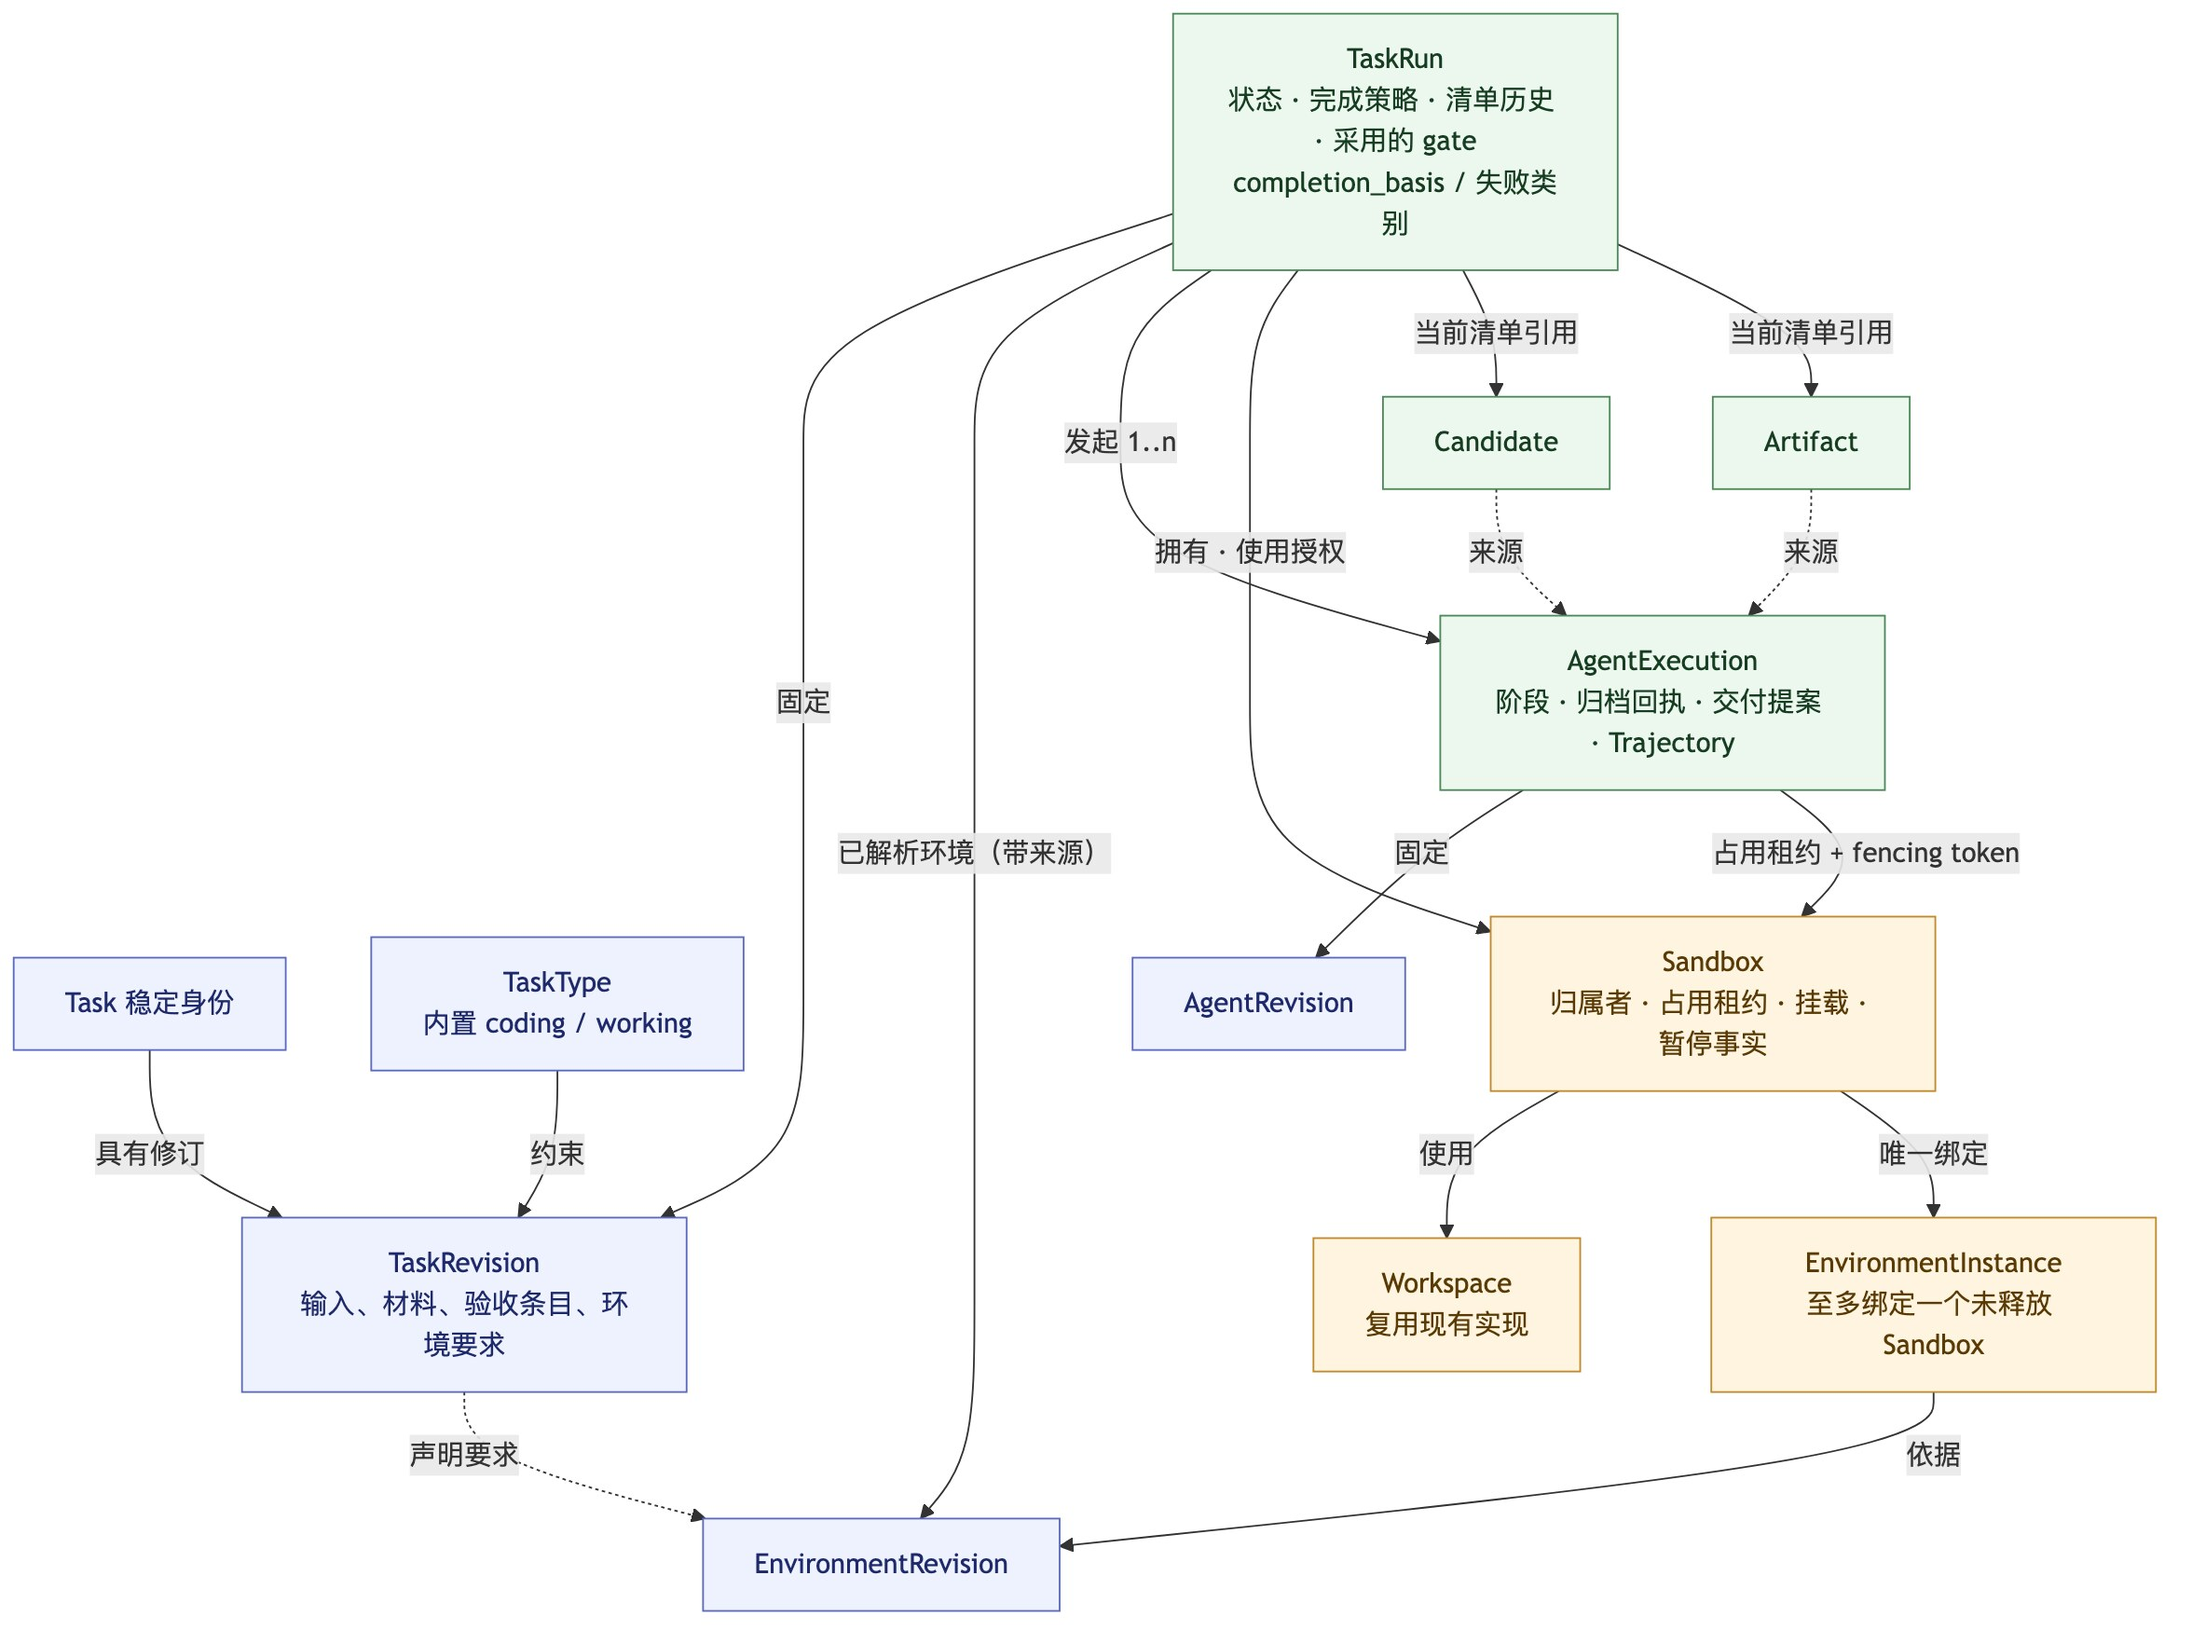
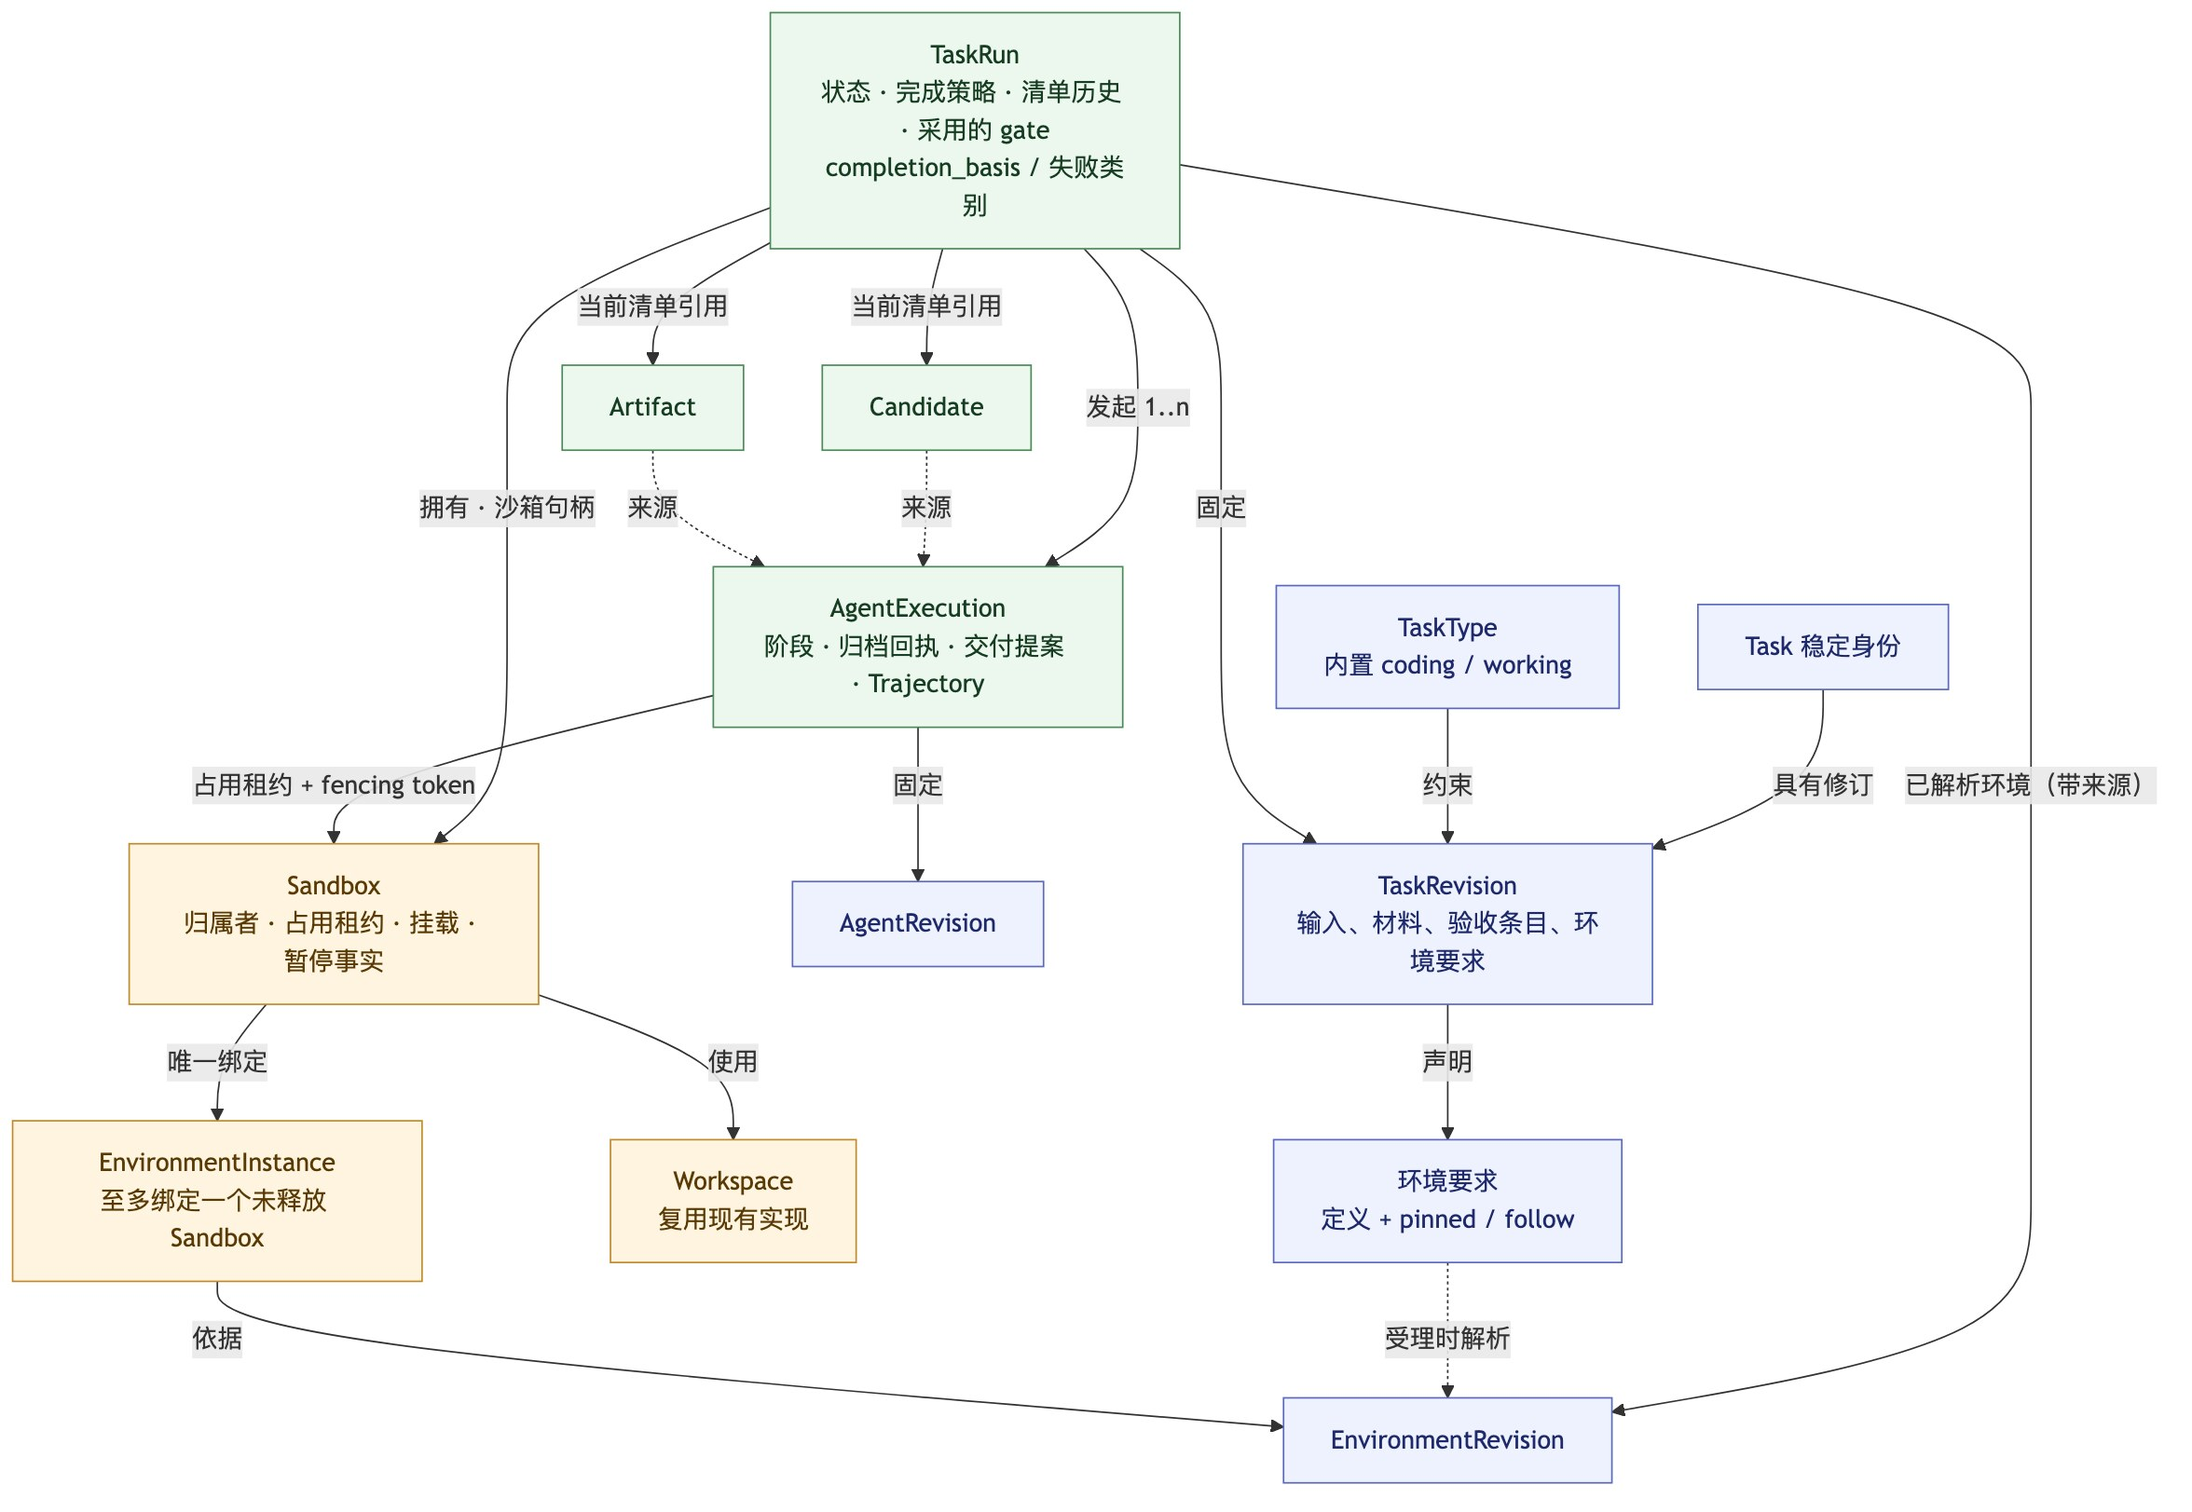
docs: close second R1 review findings (D139)
Resolve the 12 findings from the second design review: delivery-first success when the producing execution later fails, delivery proposals from tool declaration or output-contract extraction, full material binding for gate records, a TaskRun advance slot, CommandRun unknown-exit handling, and the opaque Sandbox handle. Update D37, D41 and D43 notes, rename the superseded convergence section, and redraw the affected diagrams.

diff --git a/docs/decisions/0001-unified-agent-evaluation.md b/docs/decisions/0001-unified-agent-evaluation.md
@@ -1,11 +1,11 @@
 # 通用 Agent 评测：开发共识与实施依据
 
-- 日期：2026-10-31；最近更新：2026-11-02（D129–D138 目标模型 R1 已确认）。
+- 日期：2026-10-31；最近更新：2026-11-02（D129–D139 目标模型 R1 已确认）。
 - 决策状态：**已接受总体方向；实现尚未完成**。
 - 范围：Grounds CLI 的评测领域模型、Agent 适配、轨迹与产物、并发，以及评测与开发共用的环境治理领域模型和容器执行。
 - 用途：持续维护的开发依据。后续讨论形成的新结论更新本文件；提议、已确认要求与实际完成情况分别记录。
 
-阅读顺序：**先读[目标模型 R1](0001-target-model-r1.md)**，它是 D129–D138 修订后可以单独阅读的当前目标模型（已确认，待实现）；再看第 3 节“当前收敛版”的领域关系、状态草图和迁移表；后续旧图仅作历史说明。深模块边界仍见第 3 节；当前源码状态看第 5 节；第 7 节保留方案比较与此前评审，第 9 节为尚待验证的验收目标。
+阅读顺序：**先读[目标模型 R1](0001-target-model-r1.md)**，它是 D129–D139 修订后可以单独阅读的当前目标模型（已确认，待实现）；第 3 节“D128 历史收敛版”只用于查阅旧迁移表与修订前的关系；后续旧图仅作历史说明。深模块边界仍见第 3 节；当前源码状态看第 5 节；第 7 节保留方案比较与此前评审，第 9 节为尚待验证的验收目标。
 
 ## 1. 我们要交付什么
 
@@ -346,7 +346,7 @@ Task 声明用途不等于自行授予权限，执行前需与已授权范围及
 
 #### D37：环境实例的主生命周期与异常信息分开表达——主阶段已确认，待实现
 
-> **R1 修订（D132，已确认）：** 执行占用改由 Sandbox 记录，实例主阶段调整为已登记 / 准备中 / 可用 / 已暂停 / 释放中 / 已释放。见[目标模型 R1](0001-target-model-r1.md)第 3.3 节。
+> **R1 修订（D132 / D138，已确认）：** 执行占用与暂停事实改由 Sandbox 记录，实例主阶段调整为已登记 / 准备中 / 可用 / 释放中 / 已释放。见[目标模型 R1](0001-target-model-r1.md)第 3.4、6 节。
 
 建议主生命周期先采用六个业务阶段：已登记、准备中、可用、占用中、释放中、已释放。先登记身份与归属，再准备资源；仅准备和兼容性检查成功后进入可用。新的顶层执行必须先取得占用权再启动；执行停止且使用权结束、环境检查通过后才回到可用，进程退出本身不保证可用。
 
@@ -418,6 +418,8 @@ Task 已包含的公开要求直接按版本引用，不在评测项复制另一
 
 #### D41：明确交付内容，再经统一接收与保存形成 Artifact——已确认，待实现
 
+> **R1 修订（D139，已确认）：** 两种来源都保留，统一形成“交付提案”：工具显式声明优先，否则由 TaskType 按输出契约确定性提取；TaskExecution 以“执行 ID + proposal”为操作身份自动提交为清单。见[目标模型 R1](0001-target-model-r1.md)第 4.3 节。
+
 已完成 ADK、LangChain 与 smolagents 三个官方仓库固定提交的首轮源码阅读，覆盖存取接口、生成示例、工具输出和最终回答处理，并读取相关上游测试；未执行框架测试或模型实验。完整证据与比较见 [Artifact 源码调研](../research/agent-artifact-design.md)。ADK 展示版本化内容服务，LangChain 展示模型回执与应用数据分离，smolagents 展示显式终结输出；三者的 Artifact / 最终输出含义不能直接等同于 Grounds 的正式交付。
 
 建议 Working 正式交付必须有明确选择：可以由 Agent 通过工具声明内容或文件，也可以由任务适配器按已声明的最终输出契约提取；两者进入同一接收与归档流程，校验后持久保存、冻结，返回可读取的 Artifact 引用并关联来源执行。普通工作文件、输入材料和工具中间结果不因出现就自动升级为正式交付；不扫描整个工作目录猜测应交付什么。接收校验检查结构与契约，质量评价仍由 Grader 完成，不把低质量回答直接当作基础设施失败。
@@ -437,6 +439,8 @@ Task 已包含的公开要求直接按版本引用，不在评测项复制另一
 用户已接受 Working 一次执行允许多个 Artifact、由 Task 声明必需与可选交付项的边界。多个产物属于同一次任务尝试，缺少必需项不算成功交付，多文件不自动拆为多产物。Candidate 保持独立；D51 随后确认 Coding 可另带 Artifact，具体对应关系、提交协议和字段尚未实现。
 
 #### D43：逐项保存与整次交付确认分开，完成时固定清单——已确认，待实现
+
+> **R1 修订（D139，已确认）：** 最终清单由交付提案自动提交，开发场景可由调用方整体替换；提交须先取得 TaskRun 的推进槽。
 
 建议多个 Artifact 可逐项接收并持久保存，每项保存成功即有确定引用；Task 本次交付尚不因此自动完成。执行适配器或 Agent 的交付操作明确提供最终清单，将 Task 声明的交付项对应到确切 Artifact 引用；应用服务校验必需项完整、引用可读和归属合法后，保存并冻结这份清单。可选项未提供不阻塞完整性，但已声明纳入清单的内容必须保存成功。
 
@@ -1703,6 +1707,20 @@ flowchart LR
 
 **文档：** D34、D79、D82、D83、D100、D102、D125 增加 R1 修订标注。
 
+#### D139：R1 第二轮复审后的补充——已确认，待实现
+
+**来源：** 2026-11-02 第二轮独立复审确认上一轮 22 条中 21 条已闭合，另提出 12 条新发现（结论 BLOCK）。助手核对后全部成立；其中两项业务取舍经用户选择，其余为直接补齐。内容已并入[目标模型 R1](0001-target-model-r1.md)。
+
+| 问题 | 选择 |
+| --- | --- |
+| 有效交付已归档，但提供交付的执行随后被判失败 | **用户选择：以交付为准。** 交付被接收且回执齐全即成功，执行失败只保留为历史；`agent-execution` 仅用于“执行失败且没有可接收交付” |
+| 交付提案的来源 | **用户选择：两种都保留（与 D41 一致）。** 工具显式声明优先，否则由 TaskType 按输出契约从归档输出中确定性提取；两种来源共用“执行 ID + proposal”操作身份 |
+| gate 补验可能引用基于旧轨迹的结论 | gate 绑定加入 GraderRevision 声明的全部目标与材料的确切身份；只有完整绑定相同的记录才能被引用和采用 |
+| 等待继续时“提交清单”与“继续”并发 | TaskRun 增加推进槽：执行预留、清单处理、gate 都要先以 CAS 取得，失败方返回冲突与当前状态；同一 TaskRun 同时只有一次 gate |
+| CommandRun 在宿主崩溃后没有退出结果 | 以“退出结果未知”终结，GradingRecord 记为评分器故障，不自动重跑；重试需新建 GradingRecord；只有适配器能证明可安全续跑时才恢复原身份 |
+| “使用授权”的能力范围不清、安全承诺过强 | 改为不透明的“沙箱句柄”，一期不承担安全承诺；归属者用例可以凭它暂停、恢复、释放，受管操作只能凭它申请占用租约 |
+| 文档与图示 | D37 修订提示去掉“已暂停”；D41、D43 增加修订提示；第 3 节旧收敛版改名为历史版；评测序列图区分准备失败、回执不可用（阻塞核对）与正常终结，并只在确认无占用后释放；领域图加入环境要求节点；模块图把 CommandRun 画为 Grading 拥有的运行事实 |
+
 ## 3. 核心领域概念
 
 **领域用语：** Task 统一称为“任务”；“题目”仅用于具体评测场景的口语描述。评分可依据标准或偏好，参考答案不是必需字段。
@@ -1715,7 +1733,7 @@ flowchart LR
 
 以下是职责约定，尚不是已发布的 TypeScript 接口或 JSON schema。最终名称、字段和版本迁移须在实现时落实到现有机器契约。
 
-### 当前收敛版：先读本节，再查历史决策
+### D128 历史收敛版：已由目标模型 R1 取代
 
 > **R1 提示：** 本节反映 D128 时的状态。D129–D137 已确认，凡与[目标模型 R1](0001-target-model-r1.md) 冲突之处（完成策略、验收记录、评价者执行、Sandbox、环境要求、Verification 模块等）以目标模型为准；其余内容继续有效。
 
